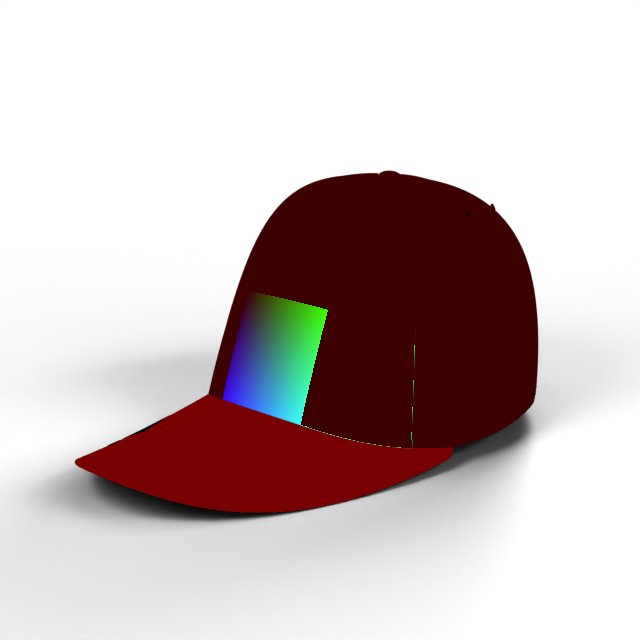
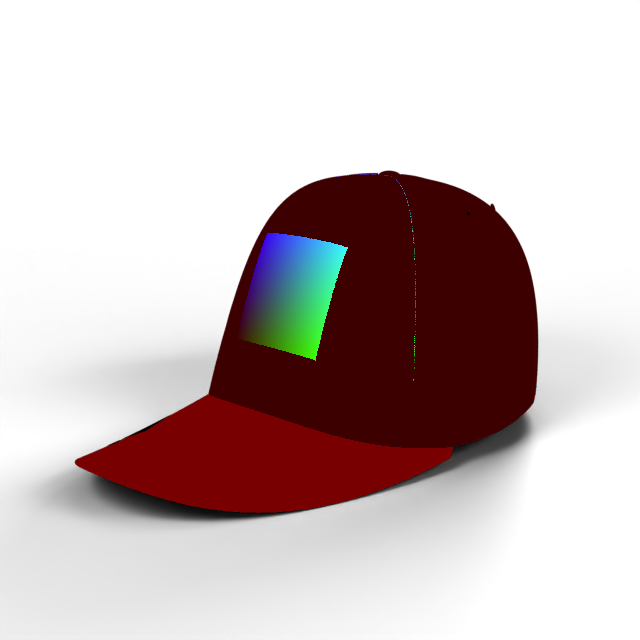
DIPROLASER: gamuza y microperforada con la forma nueva; camel igual a la foto y menos brillo en gamuza
- Giro completo de gamuza (logo corregido) y microperforada.
- Camel ajustado al tono de la foto real (#c88a68) y brillo de la gamuza a la mitad.

Claude-Session: https://claude.ai/code/session_016ZBPUb4gw4W8TNspvSBnu1

Changed region(s): [[0.3438, 0.3438, 0.5625, 0.6875]]

diff --git a/diprolaser/web/src/configurator/viewer.js b/diprolaser/web/src/configurator/viewer.js
@@ -7,7 +7,7 @@ const lin = (hex) => [1, 3, 5].map((i) => { const c = parseInt(hex.slice(i, i + 
 const loadImg = (src) => new Promise((res, rej) => { const i = new Image(); i.decoding = 'async'; i.crossOrigin = 'anonymous'; i.onload = () => res(i); i.onerror = rej; i.src = src; });
 const TECH = { bordado: 0, placa: 1, parche: 2, laser: 3, color: 4 };
 // cuánto del brillo de la tela (sheen/especular) se usa por parte [corona, visera, abajo]: el algodón negro se veía gris de frente
-const SGAIN = { tela: [.55, .55, .55], bicolor: [.55, 1, 1] };
+const SGAIN = { tela: [.55, .55, .55], gamuza: [.5, .5, .5], micro: [.5, .5, .5], bicolor: [.55, .5, .5] };
 const sgain = (m) => SGAIN[m] || [1, 1, 1];
 
 /* ---------- caché de cuadros compartida (hero y configurador usan las mismas imágenes) ---------- */

diff --git a/diprolaser/web/src/configurator/index.js b/diprolaser/web/src/configurator/index.js
@@ -5,7 +5,7 @@ import { messages, setWa } from '../lib/whatsapp.js';
 import { processLogo, defaultLogo } from './logo.js';
 
 export const COLORS = {
-  negro: ['Negro', '#141416'], rojo: ['Rojo DIPROLASER', '#c81e28'], camel: ['Camel', '#9a6139'], beige: ['Beige', '#c9b596'],
+  negro: ['Negro', '#141416'], rojo: ['Rojo DIPROLASER', '#c81e28'], camel: ['Camel', '#c88a68'], beige: ['Beige', '#c9b596'],
   gris: ['Gris', '#6b6e73'], marino: ['Azul marino', '#1c2742'], olivo: ['Verde olivo', '#4e5a2b'], blanco: ['Blanco', '#ecece6'],
 };
 const MODEL_NAMES = { tela: 'Tela', gamuza: 'Gamuza', micro: 'Microperforada', impermeable: 'Impermeable perforada', trucker: 'Trucker', bicolor: 'Bicolor' };
